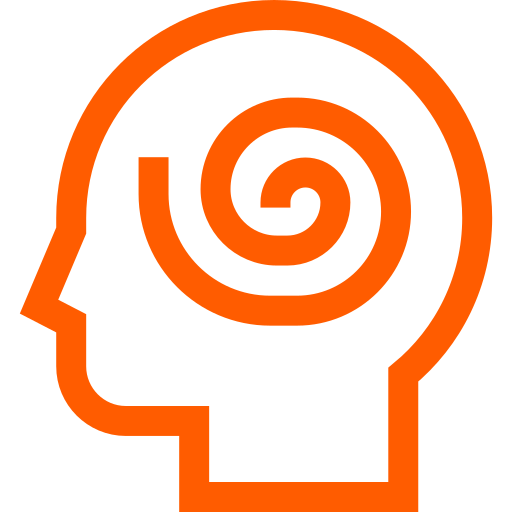
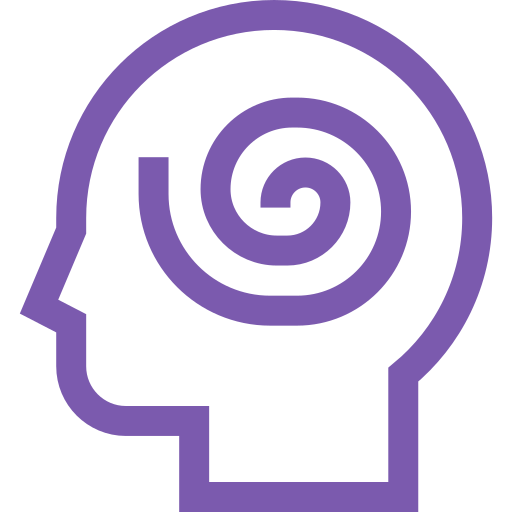
changement de couleur principale

Changed region(s): [[0.0312, 0.0, 0.9688, 1.0], [0.25, 0.1875, 0.8125, 0.6562]]

diff --git a/style.css b/style.css
@@ -65,13 +65,13 @@ nav > ul > li:hover {
 }
 
 .membres {
-  color: #ff5c00;
+  color: #7b5aae;
 }
 
 .discordBtn,
 .discordBtn::after {
   padding: 25px 20px;
-  background: linear-gradient(45deg, transparent 10%, #ff5c00 5%);
+  background: linear-gradient(45deg, transparent 10%, #7b5aae 5%);
   border: 0;
   color: #202124;
   line-height: 1;
@@ -287,7 +287,7 @@ nav > ul > li:hover {
   }
   
   .urgent {
-    background-color: #ff5c00;
+    background-color: #7b5aae;
   }
   
   .mission-title {
@@ -448,7 +448,7 @@ nav > ul > li:hover {
 }
 
 button[type="submit"] {
-  background: linear-gradient(45deg, transparent 10%, #ff5c00 5%);
+  background: linear-gradient(45deg, transparent 10%, #7b5aae 5%);
   color: white;
   font-family: 'Bebas Neue';
   padding: 12px 20px;
@@ -468,7 +468,7 @@ button[type="submit"] {
 }
 
 .btn-orange {
-  background: #ff5c00;
+  background: #7b5aae;
   color: white;
   font-family: 'Bebas Neue';
   padding: 12px 20px;
@@ -537,7 +537,7 @@ button[type="submit"] {
 padding-top: 12px;
 padding-bottom: 12px;
 text-align: left;
-background-color: #ff5c00;
+background-color: #7b5aae;
 color: white;
 }
 
@@ -584,7 +584,7 @@ color: white;
 }
 
 .btn-orange {
-  background: linear-gradient(45deg, transparent 10%, #ff5c00 5%);
+  background: linear-gradient(45deg, transparent 10%, #7b5aae 5%);
   color: white;
   font-family: 'Bebas Neue';
   padding: 12px 20px;
@@ -615,7 +615,7 @@ textarea{
 }
 
 .forgotPassword > a[href="forgotPassword.php"] {
-  color: #ff5c00;
+  color: #7b5aae;
   margin-top: 10px;
   text-align: center;
 }

diff --git a/membres.php b/membres.php
@@ -109,7 +109,7 @@
         }
 
         #usersTable tr {
-            background-color: #f2f2f2;
+            background-color: #7b5aae;
         }
 
 
@@ -117,7 +117,7 @@
             padding-top: 12px;
             padding-bottom: 12px;
             text-align: left;
-            background-color: #ff5c00;
+            background-color: #7b5aae;
             color: white;
         }
     </style>
